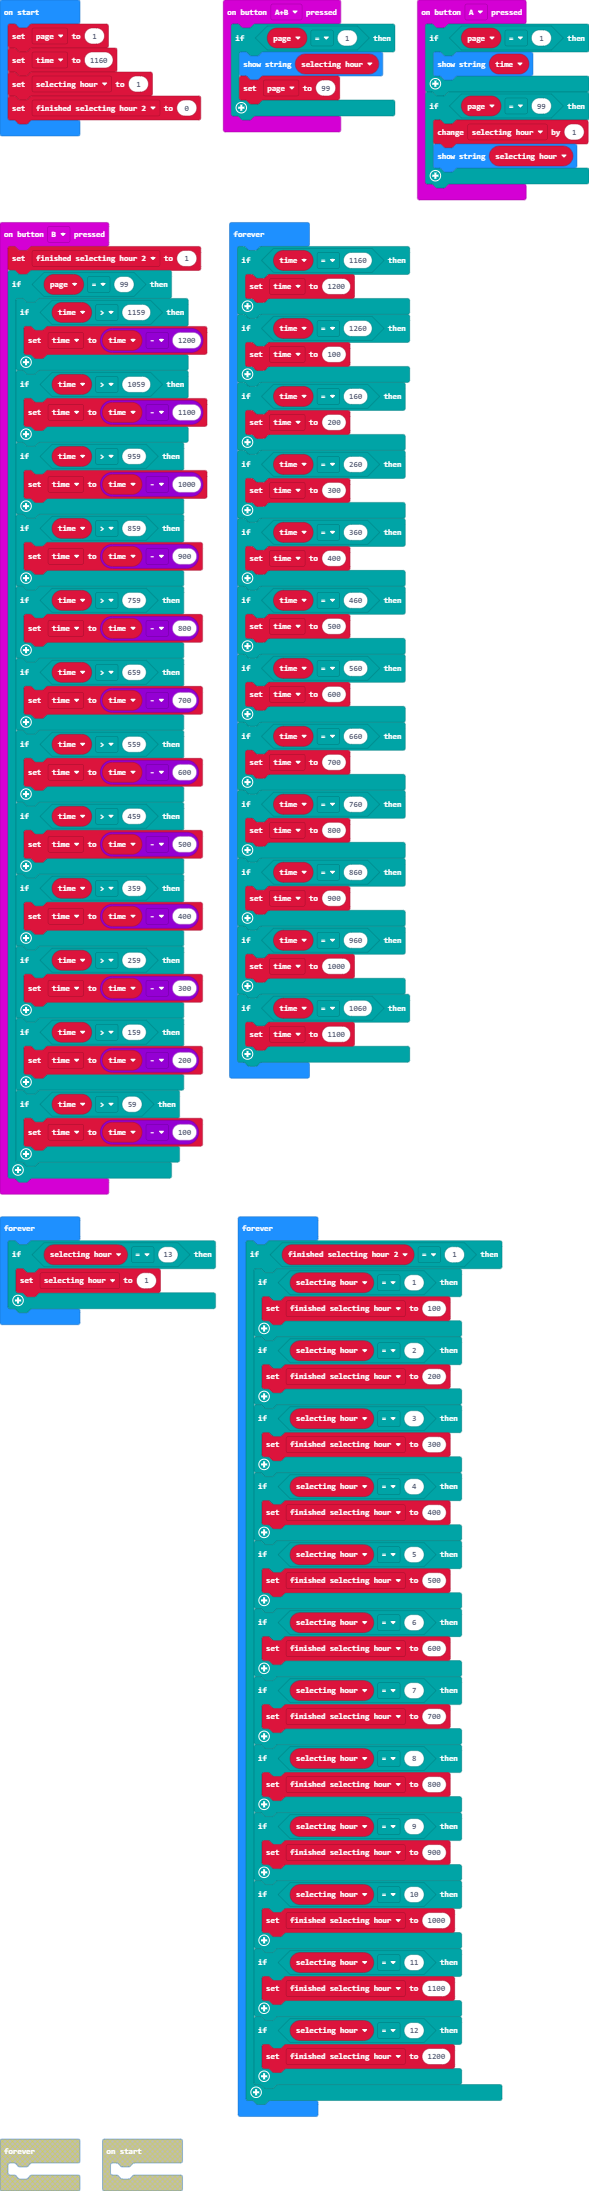
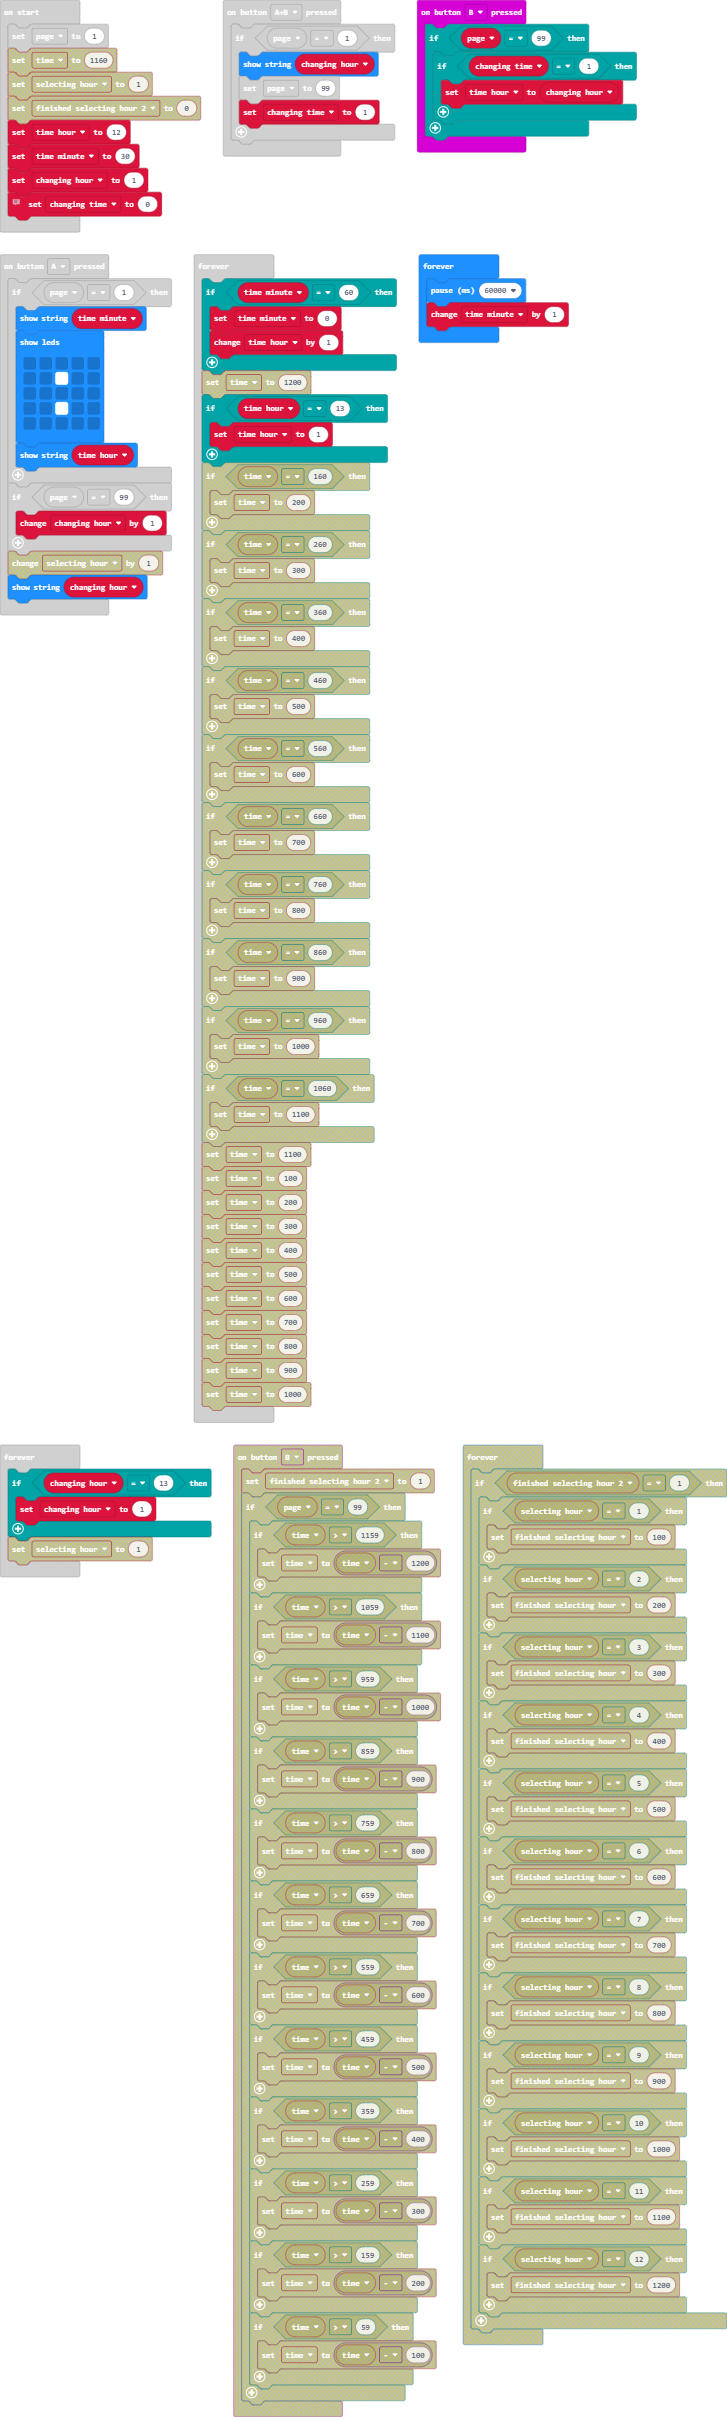
Changed core hour/minute mechanics.

diff --git a/main.ts b/main.ts
@@ -1,148 +1,62 @@
 input.onButtonPressed(Button.A, function () {
     if (page == 1) {
-        basic.showString("" + (time))
+        basic.showString("" + (time_minute))
+        basic.showLeds(`
+            . . . . .
+            . . # . .
+            . . . . .
+            . . # . .
+            . . . . .
+            `)
+        basic.showString("" + (time_hour))
     }
     if (page == 99) {
-        selecting_hour += 1
-        basic.showString("" + (selecting_hour))
+        changing_hour += 1
+        basic.showString("" + (changing_hour))
     }
 })
 input.onButtonPressed(Button.AB, function () {
     if (page == 1) {
-        basic.showString("" + (selecting_hour))
+        basic.showString("" + (changing_hour))
         page = 99
+        changing_time = 1
     }
 })
 input.onButtonPressed(Button.B, function () {
-    finished_selecting_hour_2 = 1
     if (page == 99) {
-        if (time > 1159) {
-            time = time - 1200
-        }
-        if (time > 1059) {
-            time = time - 1100
-        }
-        if (time > 959) {
-            time = time - 1000
-        }
-        if (time > 859) {
-            time = time - 900
-        }
-        if (time > 759) {
-            time = time - 800
-        }
-        if (time > 659) {
-            time = time - 700
-        }
-        if (time > 559) {
-            time = time - 600
-        }
-        if (time > 459) {
-            time = time - 500
-        }
-        if (time > 359) {
-            time = time - 400
-        }
-        if (time > 259) {
-            time = time - 300
-        }
-        if (time > 159) {
-            time = time - 200
-        }
-        if (time > 59) {
-            time = time - 100
+        if (changing_time == 1) {
+            time_hour = changing_hour
         }
     }
 })
-let finished_selecting_hour = 0
-let finished_selecting_hour_2 = 0
-let selecting_hour = 0
-let time = 0
+let changing_time = 0
+let changing_hour = 0
+let time_minute = 0
+let time_hour = 0
 let page = 0
 page = 1
-time = 1160
-selecting_hour = 1
-finished_selecting_hour_2 = 0
+time_hour = 12
+time_minute = 30
+changing_hour = 1
+// 0 =  Off
+// 1 =  Setting the hour.
+// 2 = Setting the minute.
+changing_time = 0
 basic.forever(function () {
-    if (time == 1160) {
-        time = 1200
+    if (time_minute == 60) {
+        time_minute = 0
+        time_hour += 1
     }
-    if (time == 1260) {
-        time = 100
-    }
-    if (time == 160) {
-        time = 200
-    }
-    if (time == 260) {
-        time = 300
-    }
-    if (time == 360) {
-        time = 400
-    }
-    if (time == 460) {
-        time = 500
-    }
-    if (time == 560) {
-        time = 600
-    }
-    if (time == 660) {
-        time = 700
-    }
-    if (time == 760) {
-        time = 800
-    }
-    if (time == 860) {
-        time = 900
-    }
-    if (time == 960) {
-        time = 1000
-    }
-    if (time == 1060) {
-        time = 1100
+    if (time_hour == 13) {
+        time_hour = 1
     }
 })
 basic.forever(function () {
-    if (selecting_hour == 13) {
-        selecting_hour = 1
-    }
+    basic.pause(60000)
+    time_minute += 1
 })
 basic.forever(function () {
-    if (finished_selecting_hour_2 == 1) {
-        if (selecting_hour == 1) {
-            finished_selecting_hour = 100
-        }
-        if (selecting_hour == 2) {
-            finished_selecting_hour = 200
-        }
-        if (selecting_hour == 3) {
-            finished_selecting_hour = 300
-        }
-        if (selecting_hour == 4) {
-            finished_selecting_hour = 400
-        }
-        if (selecting_hour == 5) {
-            finished_selecting_hour = 500
-        }
-        if (selecting_hour == 6) {
-            finished_selecting_hour = 600
-        }
-        if (selecting_hour == 7) {
-            finished_selecting_hour = 700
-        }
-        if (selecting_hour == 8) {
-            finished_selecting_hour = 800
-        }
-        if (selecting_hour == 9) {
-            finished_selecting_hour = 900
-        }
-        if (selecting_hour == 10) {
-            finished_selecting_hour = 1000
-        }
-        if (selecting_hour == 11) {
-            finished_selecting_hour = 1100
-        }
-        if (selecting_hour == 12) {
-            finished_selecting_hour = 1200
-        }
+    if (changing_hour == 13) {
+        changing_hour = 1
     }
 })
